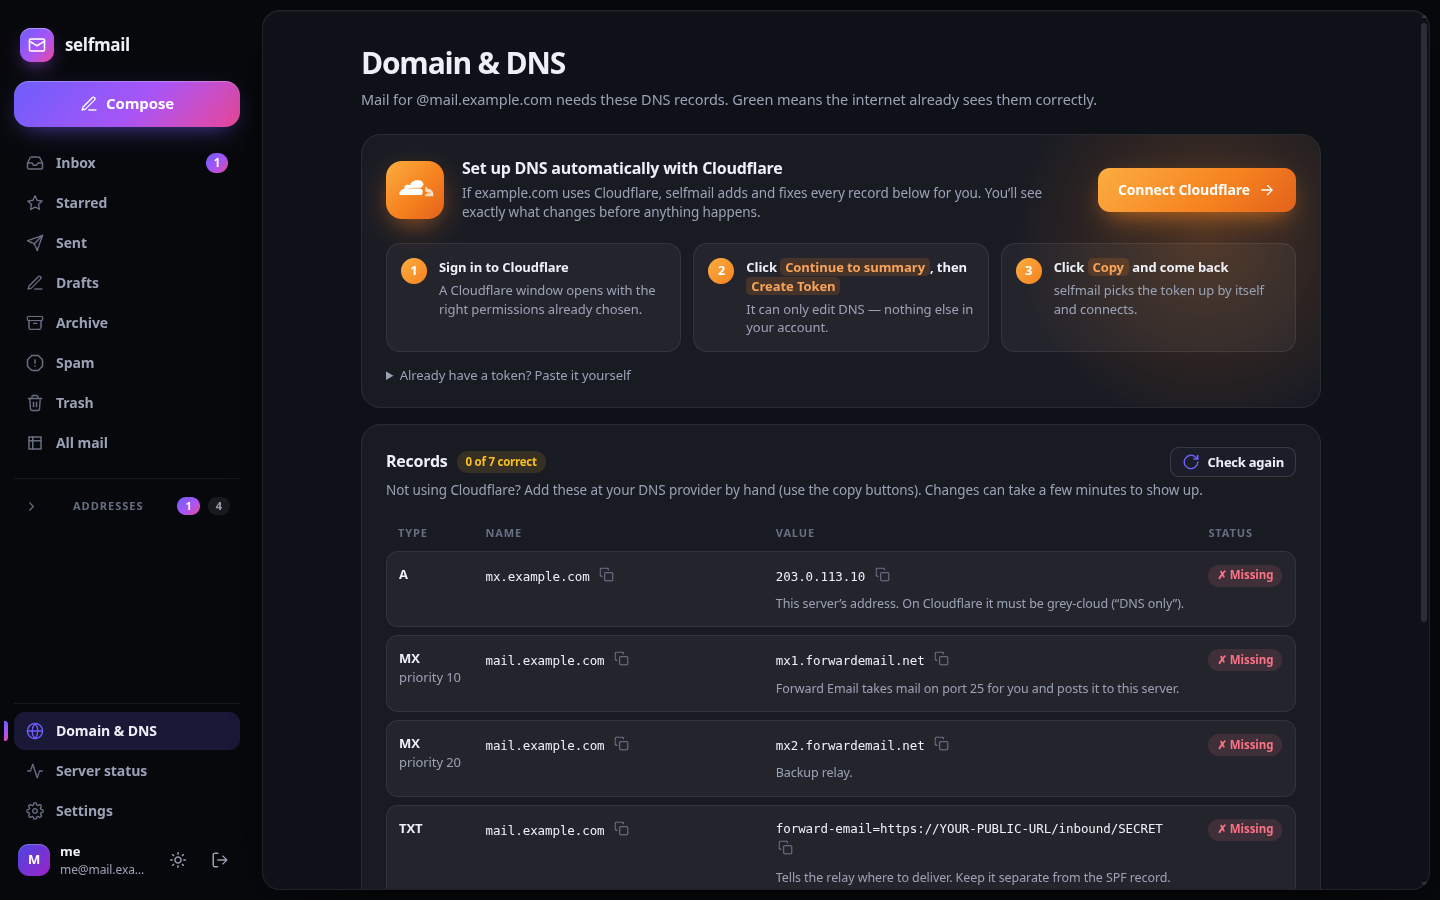
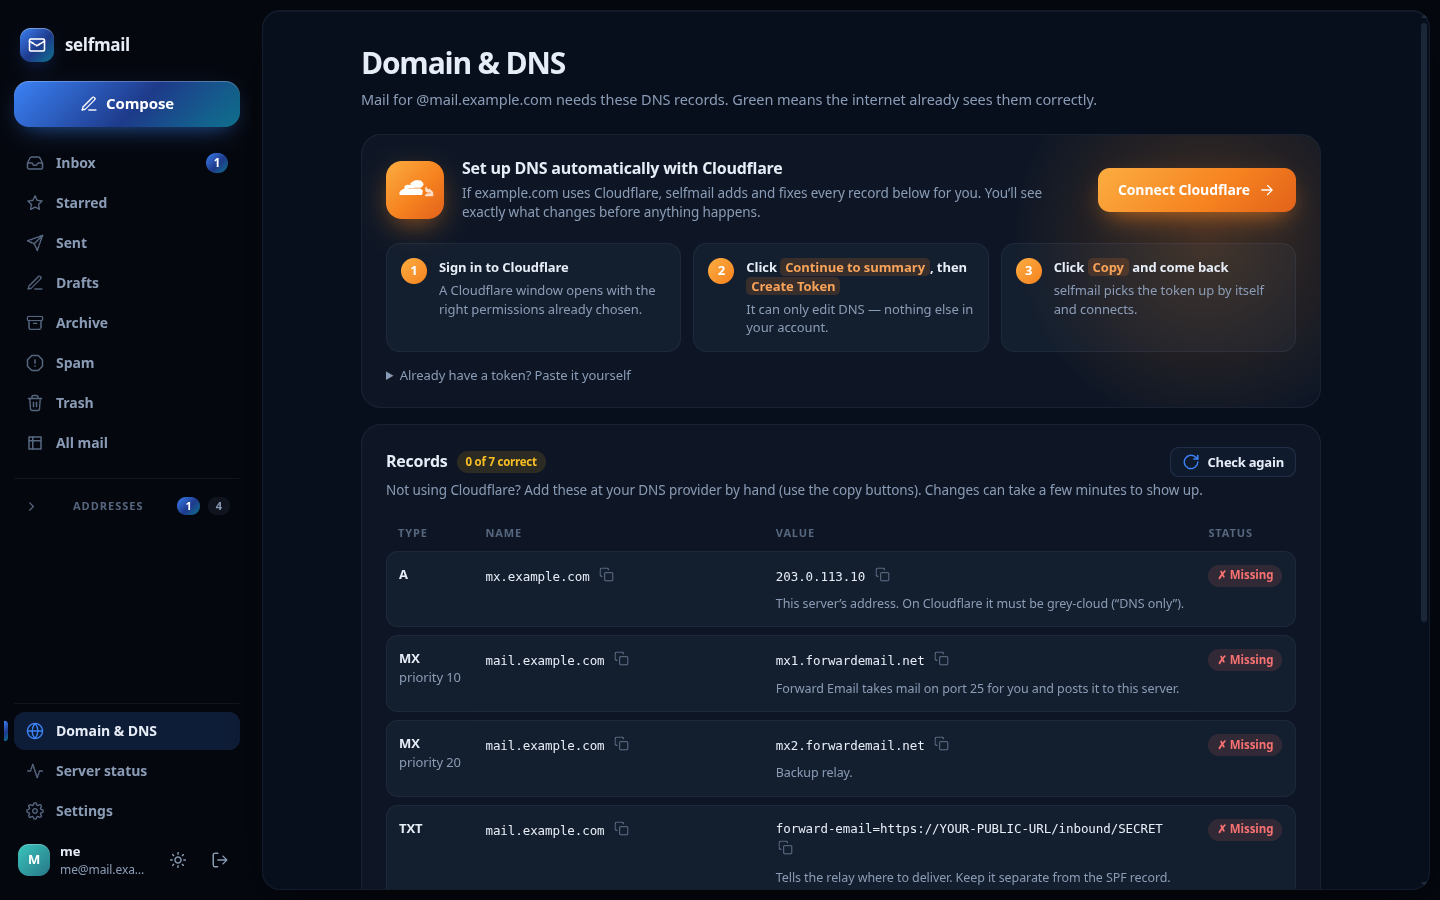
selfmail 2.2.1: stealth navy / ocean palette
- Default accent is now navy blue → deep navy → teal; no pink or purple anywhere
- Navy-tinted dark background, glass and lines; calmer aurora and login glow
- Sender avatars and address tags stay in teal-to-blue hues
- Accent choices: abyss (default), lagoon, steel, emerald, indigo, amber
- Error red instead of rose; README screenshots refreshed

diff --git a/app/public/app.css b/app/public/app.css
@@ -1,6 +1,6 @@
-/* selfmail 2 — interface ("aurora glass") */
+/* selfmail 2 — interface ("deep ocean": stealth navy glass) */
 :root{
-  --a1:#6d5efc; --a2:#a855f7; --a3:#ec4899;            /* accent gradient stops (changeable in Settings) */
+  --a1:#3b82f6; --a2:#1e3a8a; --a3:#0e7490;            /* accent gradient stops (changeable in Settings) */
   --accent:var(--a1); --accent-ink:#fff;
   --grad:linear-gradient(135deg,var(--a1),var(--a2) 55%,var(--a3));
   --font:"Inter","Segoe UI Variable Text","Segoe UI",-apple-system,BlinkMacSystemFont,Roboto,"Noto Sans",Helvetica,Arial,sans-serif,"Apple Color Emoji","Segoe UI Emoji","Noto Color Emoji";
@@ -10,34 +10,34 @@
   --row-pad:12px;
 }
 [data-theme="dark"]{
-  --bg:#07080c; --bg2:#0d0f15;
-  --glass:rgba(20,22,31,.66); --glass2:rgba(28,31,43,.72); --solid:#12141c; --solid2:#181b26;
-  --hover:rgba(255,255,255,.045); --hover2:rgba(255,255,255,.075); --sel:color-mix(in srgb,var(--a1) 18%,transparent);
-  --line:rgba(255,255,255,.07); --line2:rgba(255,255,255,.12);
-  --text:#eef0f7; --muted:#9aa1b4; --faint:#666e82;
-  --ok:#34d399; --ok-soft:rgba(52,211,153,.13); --warn:#fbbf24; --warn-soft:rgba(251,191,36,.12); --bad:#fb7185; --bad-soft:rgba(251,113,133,.13); --star:#fbbf24;
+  --bg:#04070e; --bg2:#081020;
+  --glass:rgba(10,18,33,.70); --glass2:rgba(16,27,47,.74); --solid:#0a1222; --solid2:#0f1a2e;
+  --hover:rgba(140,175,230,.045); --hover2:rgba(140,175,230,.08); --sel:color-mix(in srgb,var(--a1) 18%,transparent);
+  --line:rgba(140,175,230,.08); --line2:rgba(140,175,230,.14);
+  --text:#e6edf7; --muted:#8a9bb5; --faint:#56667f;
+  --ok:#34d399; --ok-soft:rgba(52,211,153,.13); --warn:#fbbf24; --warn-soft:rgba(251,191,36,.12); --bad:#f87171; --bad-soft:rgba(248,113,113,.13); --star:#fbbf24;
   --shadow:0 1px 0 rgba(255,255,255,.04) inset,0 20px 60px -24px rgba(0,0,0,.8);
   --shadow-lg:0 30px 90px -20px rgba(0,0,0,.85),0 0 0 1px rgba(255,255,255,.06);
   --input:rgba(255,255,255,.04); color-scheme:dark;
 }
 [data-theme="light"]{
-  --bg:#eef0f7; --bg2:#f6f7fb;
+  --bg:#e9eef5; --bg2:#f4f7fb;
   --glass:rgba(255,255,255,.72); --glass2:rgba(255,255,255,.86); --solid:#ffffff; --solid2:#f7f8fc;
   --hover:rgba(15,20,40,.04); --hover2:rgba(15,20,40,.07); --sel:color-mix(in srgb,var(--a1) 11%,transparent);
   --line:rgba(15,20,40,.08); --line2:rgba(15,20,40,.14);
-  --text:#151a2c; --muted:#5b6379; --faint:#8e95a8;
-  --ok:#059669; --ok-soft:#d1fae5; --warn:#b45309; --warn-soft:#fef3c7; --bad:#e11d48; --bad-soft:#ffe4e6; --star:#f59e0b;
-  --shadow:0 1px 2px rgba(15,20,40,.05),0 18px 50px -26px rgba(30,30,80,.35);
-  --shadow-lg:0 30px 90px -24px rgba(30,30,80,.45),0 0 0 1px rgba(15,20,40,.06);
+  --text:#0f1b2d; --muted:#51627a; --faint:#8794a8;
+  --ok:#059669; --ok-soft:#d1fae5; --warn:#b45309; --warn-soft:#fef3c7; --bad:#dc2626; --bad-soft:#fee2e2; --star:#f59e0b;
+  --shadow:0 1px 2px rgba(15,20,40,.05),0 18px 50px -26px rgba(10,30,70,.35);
+  --shadow-lg:0 30px 90px -24px rgba(10,30,70,.45),0 0 0 1px rgba(15,20,40,.06);
   --input:rgba(15,20,40,.035); color-scheme:light;
 }
 [data-density="compact"]{--row-pad:7px}
 *{box-sizing:border-box}
 html,body{margin:0;height:100%;background:var(--bg);color:var(--text);font:14px/1.45 var(--font);-webkit-font-smoothing:antialiased;letter-spacing:-.006em}
 body::before{content:"";position:fixed;inset:-20%;z-index:-1;pointer-events:none;
-  background:radial-gradient(40% 35% at 18% 12%,color-mix(in srgb,var(--a1) 30%,transparent),transparent 70%),
-             radial-gradient(35% 35% at 85% 18%,color-mix(in srgb,var(--a3) 18%,transparent),transparent 70%),
-             radial-gradient(45% 40% at 70% 95%,color-mix(in srgb,var(--a2) 20%,transparent),transparent 70%);
+  background:radial-gradient(40% 35% at 18% 12%,color-mix(in srgb,var(--a1) 16%,transparent),transparent 70%),
+             radial-gradient(35% 35% at 85% 18%,color-mix(in srgb,var(--a3) 14%,transparent),transparent 70%),
+             radial-gradient(45% 40% at 70% 95%,color-mix(in srgb,var(--a2) 26%,transparent),transparent 70%);
   filter:blur(20px);animation:aurora 26s ease-in-out infinite alternate}
 [data-theme="light"] body::before{opacity:.55}
 @keyframes aurora{50%{transform:translate(3%,-2%) scale(1.06)}100%{transform:translate(-3%,2%) scale(1.02)}}
@@ -74,8 +74,8 @@ label.f small{font-weight:400;color:var(--muted)}
 .muted{color:var(--muted)}
 .chip{display:inline-flex;align-items:center;gap:5px;height:22px;padding:0 9px;border-radius:999px;font-size:11.5px;font-weight:650;background:var(--hover2);color:var(--muted);white-space:nowrap}
 .chip.ok{background:var(--ok-soft);color:var(--ok)}.chip.bad{background:var(--bad-soft);color:var(--bad)}.chip.warn{background:var(--warn-soft);color:var(--warn)}
-.chip.acc{background:hsl(var(--h,250) 80% 60% / .16);color:hsl(var(--h,250) 85% 72%)}
-[data-theme="light"] .chip.acc{color:hsl(var(--h,250) 70% 40%)}
+.chip.acc{background:hsl(var(--h,215) 60% 55% / .15);color:hsl(var(--h,215) 70% 72%)}
+[data-theme="light"] .chip.acc{color:hsl(var(--h,215) 65% 34%)}
 .kbd{font:600 11px var(--mono);padding:2px 6px;border-radius:6px;border:1px solid var(--line2);border-bottom-width:2px;color:var(--muted);background:var(--input)}
 .spin{width:18px;height:18px;border:2.5px solid var(--line2);border-top-color:var(--a1);border-radius:50%;animation:spin .7s linear infinite;display:inline-block}
 @keyframes spin{to{transform:rotate(360deg)}}
@@ -83,14 +83,14 @@ label.f small{font-weight:400;color:var(--muted)}
 
 /* ---------- avatars ---------- */
 .avatar{position:relative;width:38px;height:38px;border-radius:12px;display:grid;place-items:center;flex:none;overflow:hidden;color:#fff;font-weight:750;font-size:15px;transition:opacity .15s;
-  background:linear-gradient(135deg,hsl(var(--h1,250) 72% 58%),hsl(var(--h2,290) 70% 46%));box-shadow:0 1px 0 rgba(255,255,255,.25) inset}
+  background:linear-gradient(135deg,hsl(var(--h1,215) 55% 50%),hsl(var(--h2,235) 55% 34%));box-shadow:0 1px 0 rgba(255,255,255,.25) inset}
 .avatar img{position:absolute;inset:0;width:100%;height:100%;object-fit:contain;padding:7px;background:#fff;animation:fadein .3s ease both}
 .avatar.lg{width:48px;height:48px;border-radius:15px;font-size:19px}
 @keyframes fadein{from{opacity:0}}
 
 /* ---------- login ---------- */
 .login{min-height:100%;display:grid;place-items:center;padding:24px;position:relative;overflow:hidden}
-.login .orb{position:absolute;border-radius:50%;filter:blur(60px);opacity:.55;animation:float 14s ease-in-out infinite alternate;pointer-events:none}
+.login .orb{position:absolute;border-radius:50%;filter:blur(70px);opacity:.38;animation:float 14s ease-in-out infinite alternate;pointer-events:none}
 .login .orb.a{width:520px;height:520px;background:var(--a1);left:-140px;top:-160px}
 .login .orb.b{width:420px;height:420px;background:var(--a3);right:-120px;bottom:-140px;animation-delay:-5s}
 .login .orb.c{width:300px;height:300px;background:var(--a2);right:22%;top:12%;opacity:.35;animation-delay:-9s}
@@ -380,7 +380,7 @@ pre.log{background:#05060a;color:#c9d4e3;border:1px solid var(--line);border-rad
 @keyframes toastout{to{opacity:0;transform:translateY(8px) scale(.97)}}
 .toast .ti{width:24px;height:24px;border-radius:8px;display:grid;place-items:center;flex:none;background:var(--grad)}
 .toast .ti .i{width:14px;height:14px;color:#fff;stroke-width:2.6}
-.toast.bad .ti{background:#e11d48}
+.toast.bad .ti{background:#dc2626}
 .toast button{border:0;background:rgba(255,255,255,.1);color:#fff;font-weight:700;padding:5px 11px;border-radius:8px}
 .toast button:hover{background:rgba(255,255,255,.18)}
 .toast .bar{position:absolute;left:0;bottom:0;height:3px;background:var(--grad);animation:countdown var(--ms) linear forwards}
@@ -470,7 +470,7 @@ label.check input{width:18px;height:18px;margin-top:1px;accent-color:var(--a1);f
 .cf-state { display: none; align-items: center; gap: 10px; margin: 12px 0 4px; padding: 10px 14px; border-radius: 12px; font-size: 13px; font-weight: 600; position: relative; }
 .cf-state.wait, .cf-state.busy, .cf-state.bad { display: flex; }
 .cf-state.wait { background: rgba(246,130,31,.1); color: #f8a35a; }
-.cf-state.busy { background: var(--accent-soft, rgba(124,92,255,.12)); }
+.cf-state.busy { background: color-mix(in srgb, var(--a1) 14%, transparent); }
 .cf-state.bad { background: rgba(239,68,68,.12); color: #f87171; }
 .cf-state .dot { width: 9px; height: 9px; border-radius: 50%; background: currentColor; flex: none; }
 .cf-state.wait .dot { animation: cfpulse 1.4s ease-out infinite; }

diff --git a/app/public/app.js b/app/public/app.js
@@ -137,9 +137,9 @@ const failedLogos = new Set();
 function avatar(a, cls = '') {
   const addr = String(a?.address || '').toLowerCase(), s = String(a?.name || addr || '?').trim();
   let hsh = 0; for (const ch of (addr || s)) hsh = (hsh * 31 + ch.charCodeAt(0)) | 0;
-  const h1 = Math.abs(hsh) % 360;
+  const h1 = 168 + Math.abs(hsh) % 62;   // teal → indigo, to stay with the ocean palette
   const letter = ([...s.replace(/^["'(]+/, '')][0] || '?').toUpperCase();
-  const box = h('div', { class: 'avatar ' + cls, style: { '--h1': h1, '--h2': (h1 + 45) % 360 } }, h('span', { text: letter }));
+  const box = h('div', { class: 'avatar ' + cls, style: { '--h1': h1, '--h2': h1 + 14 } }, h('span', { text: letter }));
   const dom = addr.split('@')[1];
   if (dom && localStorage.getItem('sm-logos') !== '0' && !failedLogos.has(dom) && dom !== S.me?.domain) {
     const img = new Image(); img.alt = ''; img.decoding = 'async';
@@ -168,19 +168,19 @@ function dayGroup(ts) {
   if (d.getFullYear() === now.getFullYear() && d.getMonth() === now.getMonth()) return 'Earlier this month';
   return d.toLocaleDateString([], { month: 'long', ...(d.getFullYear() !== now.getFullYear() ? { year: 'numeric' } : {}) });
 }
-const aliasChip = a => { let x = 0; for (const c of a) x = (x * 31 + c.charCodeAt(0)) | 0; return h('span', { class: 'chip acc', style: { '--h': Math.abs(x) % 360 }, text: '@' + a.split('@')[0], title: a }); };
+const aliasChip = a => { let x = 0; for (const c of a) x = (x * 31 + c.charCodeAt(0)) | 0; return h('span', { class: 'chip acc', style: { '--h': 168 + Math.abs(x) % 62 }, text: '@' + a.split('@')[0], title: a }); };
 function copyText(t) { navigator.clipboard?.writeText(t).then(() => toast('Copied'), () => toast('Copy failed', { bad: true })); }
 
 // ============================================================== state ====
 const S = { me: null, folders: [], aliases: [], view: 'mail', folder: 'inbox', alias: '', q: '', items: [], total: 0, offset: 0, sel: new Set(), open: null, msg: null, images: new Set(), mono: {}, loading: false };
 const FOLDER_ICON = { inbox: 'inbox', starred: 'star', sent: 'send', drafts: 'draft', archive: 'archive', spam: 'spam', trash: 'trash' };
 const theme = () => localStorage.getItem('sm-theme') || 'auto';
-const ACCENTS = { violet: ['#6d5efc', '#a855f7', '#ec4899'], ocean: ['#0ea5e9', '#6366f1', '#22d3ee'], emerald: ['#10b981', '#06b6d4', '#84cc16'], sunset: ['#f97316', '#ef4444', '#ec4899'], rose: ['#e11d48', '#db2777', '#a855f7'], gold: ['#f59e0b', '#f97316', '#eab308'] };
+const ACCENTS = { abyss: ['#3b82f6', '#1e3a8a', '#0e7490'], lagoon: ['#0ea5e9', '#0c4a6e', '#14b8a6'], steel: ['#64748b', '#1e293b', '#334155'], emerald: ['#10b981', '#065f46', '#0e7490'], indigo: ['#6366f1', '#312e81', '#1e40af'], amber: ['#f59e0b', '#9a3412', '#b45309'] };
 function applyTheme() {
   const t = theme(), dark = t === 'dark' || (t === 'auto' && matchMedia('(prefers-color-scheme: dark)').matches);
   const root = document.documentElement;
   root.dataset.theme = dark ? 'dark' : 'light';
-  const a = ACCENTS[localStorage.getItem('sm-accent')] || ACCENTS.violet;
+  const a = ACCENTS[localStorage.getItem('sm-accent')] || ACCENTS.abyss;
   ['--a1', '--a2', '--a3'].forEach((k, i) => root.style.setProperty(k, a[i]));
   root.dataset.density = localStorage.getItem('sm-density') || 'comfortable';
 }
@@ -1061,7 +1061,7 @@ async function pageSettings() {
     h('div', { class: 'card' }, h('h2', {}, icon('palette'), 'Appearance'), h('p', { class: 'sub', text: 'Saved in this browser.' }),
       h('div', { class: 'form' },
         h('div', { class: 'f' }, 'Theme', segPick([['auto', 'Match device'], ['light', 'Light'], ['dark', 'Dark']], theme(), v => { localStorage.setItem('sm-theme', v); applyTheme(); renderNav(); })),
-        h('div', { class: 'f' }, 'Accent', h('div', { class: 'swatches' }, Object.entries(ACCENTS).map(([k, c]) => h('button', { class: 'swatch' + ((localStorage.getItem('sm-accent') || 'violet') === k ? ' on' : ''), title: k[0].toUpperCase() + k.slice(1), style: { background: `linear-gradient(135deg,${c[0]},${c[1]} 55%,${c[2]})` },
+        h('div', { class: 'f' }, 'Accent', h('div', { class: 'swatches' }, Object.entries(ACCENTS).map(([k, c]) => h('button', { class: 'swatch' + ((ACCENTS[localStorage.getItem('sm-accent')] ? localStorage.getItem('sm-accent') : 'abyss') === k ? ' on' : ''), title: k[0].toUpperCase() + k.slice(1), style: { background: `linear-gradient(135deg,${c[0]},${c[1]} 55%,${c[2]})` },
           onclick: e => { localStorage.setItem('sm-accent', k); applyTheme(); $$('.swatch').forEach(x => x.classList.remove('on')); e.currentTarget.classList.add('on'); } })))),
         h('div', { class: 'f' }, 'Message list', segPick([['comfortable', 'Comfortable'], ['compact', 'Compact']], localStorage.getItem('sm-density') || 'comfortable', v => { localStorage.setItem('sm-density', v); applyTheme(); })),
         h('label', { class: 'row check' }, h('input', { type: 'checkbox', checked: localStorage.getItem('sm-logos') !== '0', onchange: e => { localStorage.setItem('sm-logos', e.target.checked ? '1' : '0'); toast(e.target.checked ? 'Sender logos on' : 'Sender logos off — initials only'); } }),

diff --git a/README.md b/README.md
@@ -26,7 +26,7 @@ sudo ./setup.sh
 - **Catch-all addresses**: anything@yourdomain arrives in your mailbox, and the sidebar groups mail by the address it was sent to — handy for giving every website its own address. You can also send *from* any of them
 - New mail appears instantly (no refreshing), with optional desktop notifications
 - Search with `from:`, `to:`, `subject:` and `has:attachment`
-- Light and dark mode, six accent colours, comfortable or compact lists; works on phones
+- Light and dark mode in a deep navy-and-ocean palette (five more accents to choose from), comfortable or compact lists; works on phones
 
 **Setup and health, in plain language**
 - **Domain & DNS** lists every record you need with copy buttons, and checks each one against public DNS
